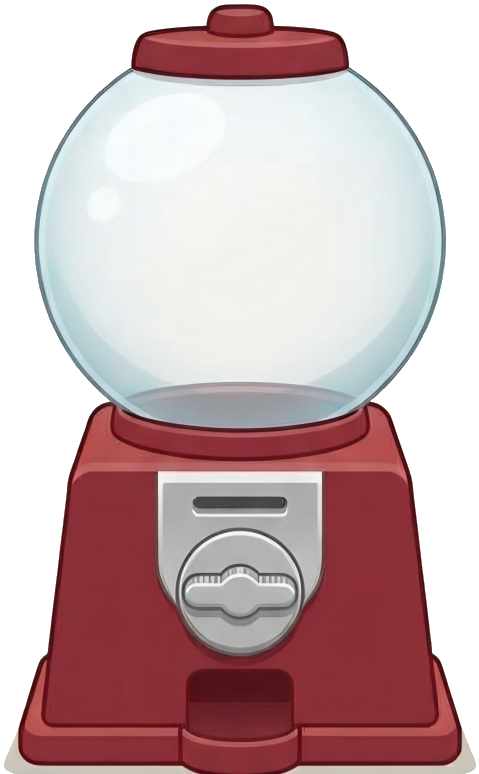
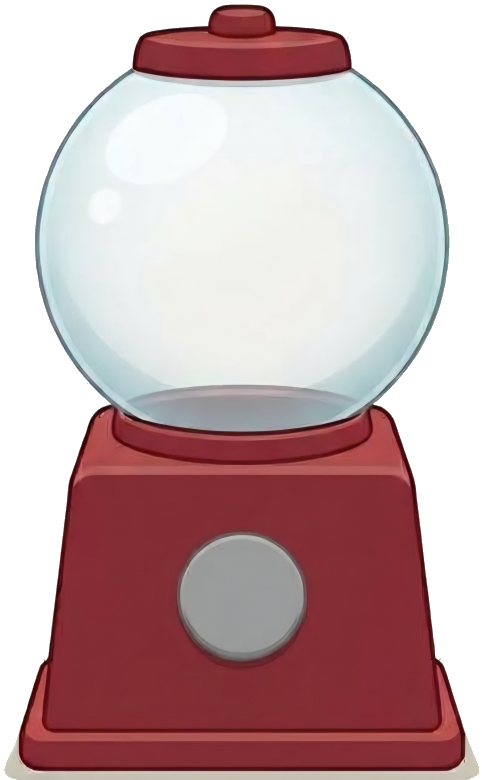
Switch to the user's blank-dial machine art - much simpler/cleaner
Replaced both gumball assets with a cleaner pair the user supplied: a
machine body with a plain flat gray circle standing in for the dial
(no baked-in knob texture at all), plus a separate standalone dial
graphic. This sidesteps the whole class of problem from the last two
fixes - cropping a knob out of a machine that already has one drawn
in is inherently fragile (anti-aliased edges, inconsistent radius by
angle, no natural seam to crop along). With a blank placeholder circle
there's nothing underneath to clash with, so alignment only has to be
"close," not pixel-perfect.

Found the blank circle's exact bounds via a localized color scan
(solid flat gray, trivial to detect) and confirmed it visually by
drawing the detected circle directly onto the source art before
trusting the numbers. Resized and positioned the dial image to match,
shrinking .gacha-knob from 75px to 60px to fit this art's proportions
(its blank circle is smaller relative to the machine body than the
previous image's knob was).

Verified against the live app: idle alignment is clean, the mid-spin
frame shows the whole dial rotating with zero fringe or seam, and the
drop/reveal sequence is unaffected.

Claude-Session: https://claude.ai/code/session_01WcnMHXCnjksfvrZ4RXcXcy

diff --git a/index.html b/index.html
@@ -332,7 +332,7 @@
      to sit exactly over the machine image's own (static) knob - spinning
      just this layer keeps "turn the dial" working without needing to spin
      the whole machine. */
-  .gacha-knob { position: absolute; left: 83px; top: 261px; width: 75px; height: 75px; z-index: 3; }
+  .gacha-knob { position: absolute; left: 91px; top: 265px; width: 60px; height: 60px; z-index: 3; }
   .gacha-knob.spin { animation: gachaSpin .9s cubic-bezier(.55,-0.3,.3,1.3); }
   @keyframes gachaSpin { from { transform: rotate(0deg); } to { transform: rotate(480deg); } }
   .gacha-coin-fly {
